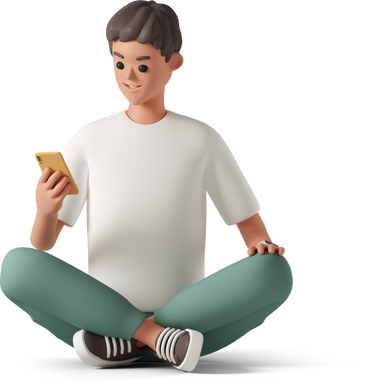
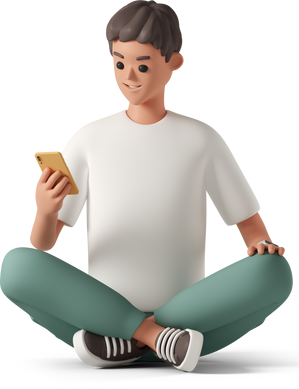
fix asset issue

diff --git a/app/(auth)/login.tsx b/app/(auth)/login.tsx
@@ -4,7 +4,7 @@ import { supabase } from "../../lib/supabaseClient";
 import { TouchableOpacity } from "react-native-gesture-handler";
 import { useColorScheme } from "@/hooks/useColorScheme";
 
-const image = require("../../assets/images/react-logo.png");
+const image = require("../../assets/images/man-with-smartphone.png");
 
 export default function AuthPage() {
   const [email, setEmail] = useState("");
@@ -41,10 +41,17 @@ export default function AuthPage() {
 
   return (
     <View
-      className={`h-full p-4 pt-20 bg-light-background dark:bg-dark-background flex justify-between pb-20`}
+      className={`h-full p-4 bg-light-background dark:bg-dark-background flex justify-between pb-20`}
     >
-      <View className="flex justify-center items-center flex-1">
-        <Image source={image} />
+      <View
+        style={{
+          flex: 1,
+          justifyContent: "center",
+          alignItems: "center",
+          width: "100%",
+        }}
+      >
+        <Image source={image} style={{ width: 200, height: 260 }} />
       </View>
       <View className="py-1 self-stretch mt-5">
         <TouchableOpacity
